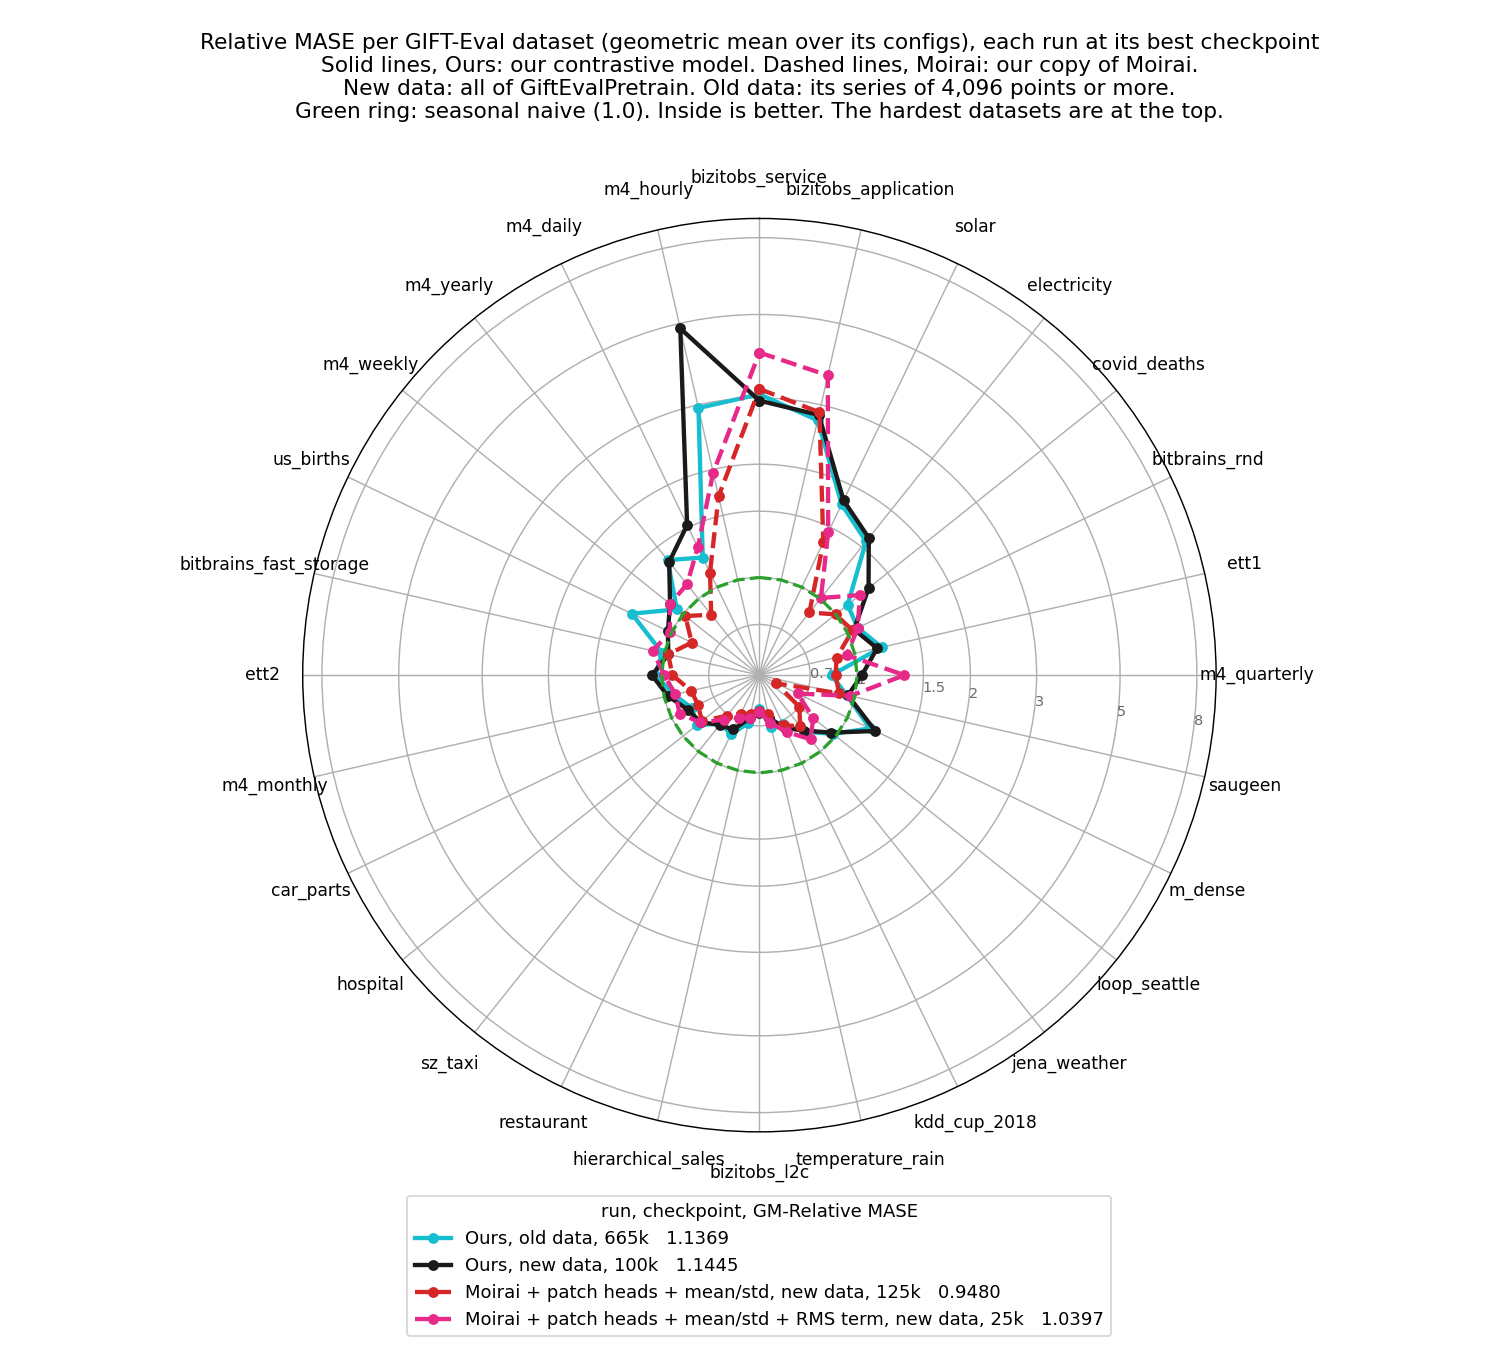
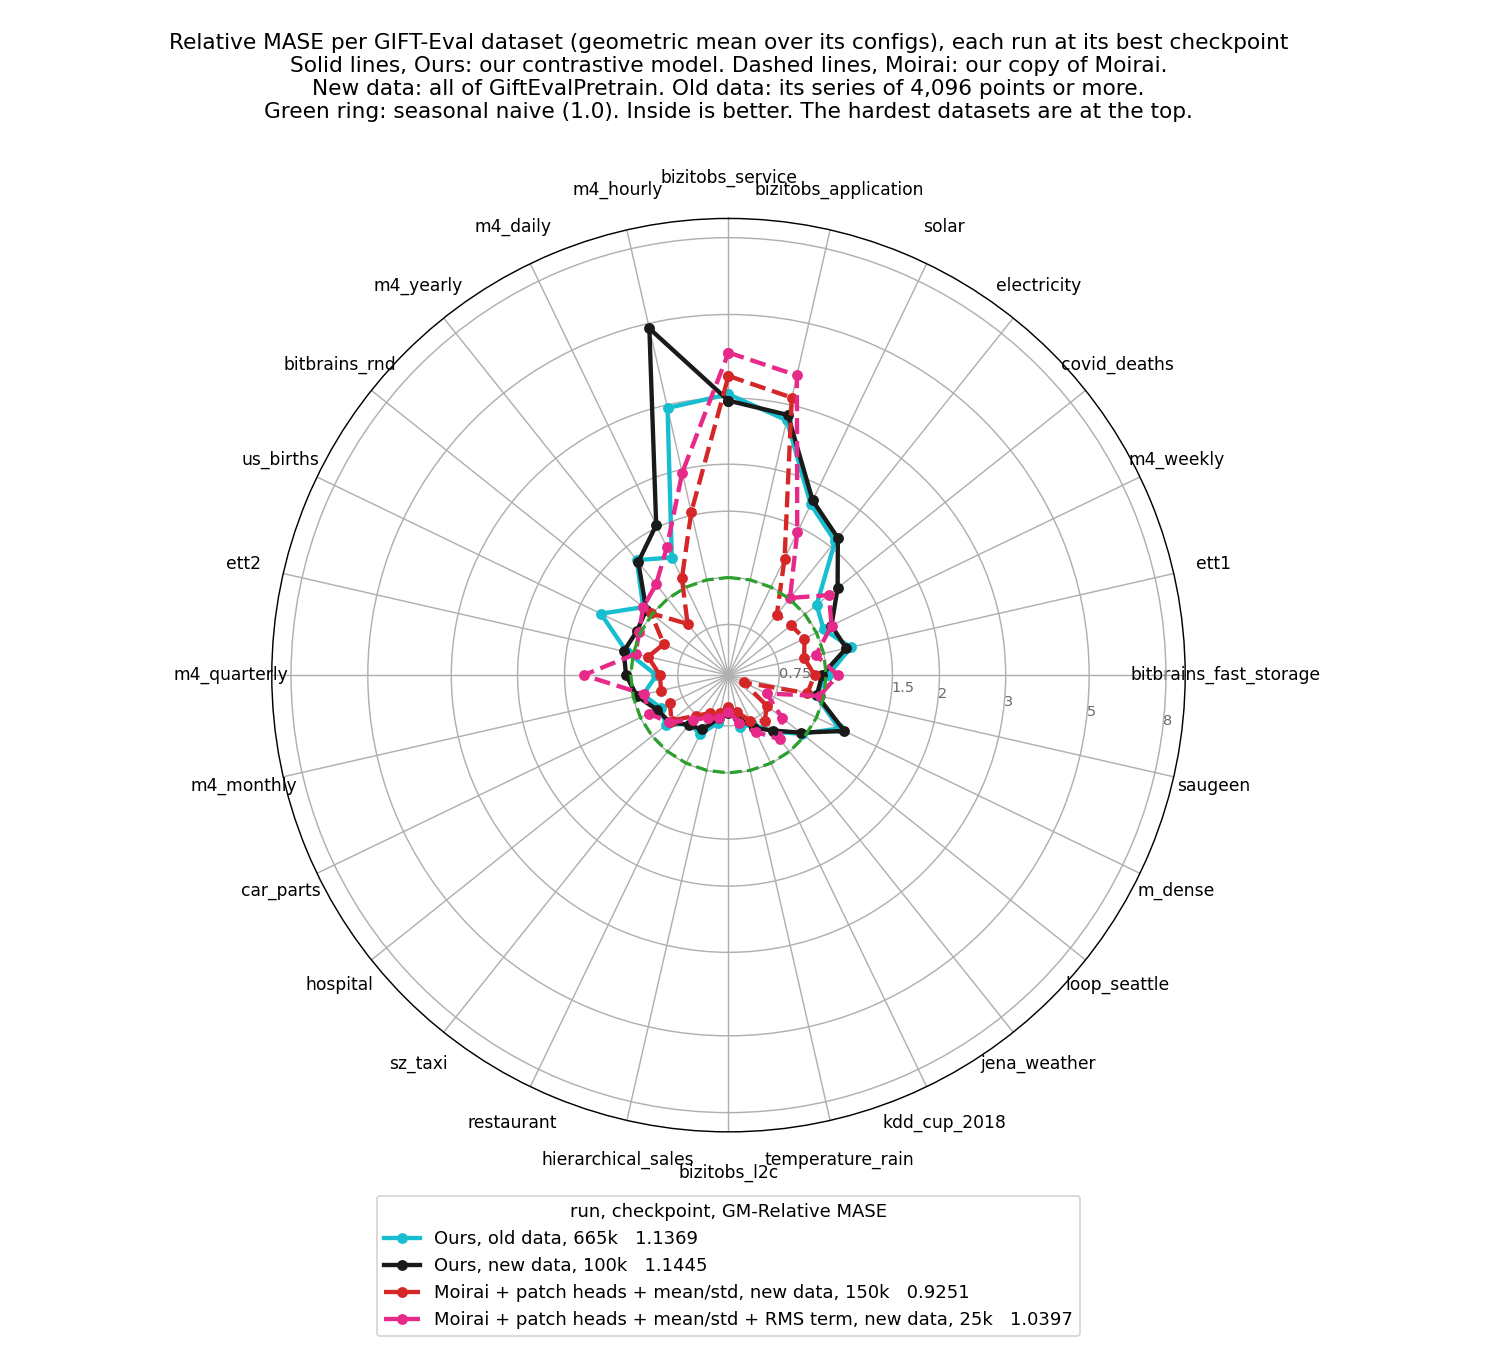
exp(#421): #421f scores 0.9251 at 150k, native
The curves reach down to 0.90.

diff --git a/reports/2026-09-06_moirai_small_size/scripts/plot_gm_rates.py b/reports/2026-09-06_moirai_small_size/scripts/plot_gm_rates.py
@@ -45,7 +45,7 @@ XSCALE = {"cf415_moirai": 4, "cf415_moirai_native": 4, "cf419_moirai_native": 4,
 # Where the last score of a line prints, so two lines that end together part.
 END_LABEL_OFFSET = {P + "_lr100x": (9, 4), P + "_cos200k": (9, -12)}
 BEST, BAND, PROJECT_BEST = 1.1369, 0.008, 1.0651
-YMIN, YMAX = 0.93, 1.32
+YMIN, YMAX = 0.90, 1.32
 
 
 def load_points():
